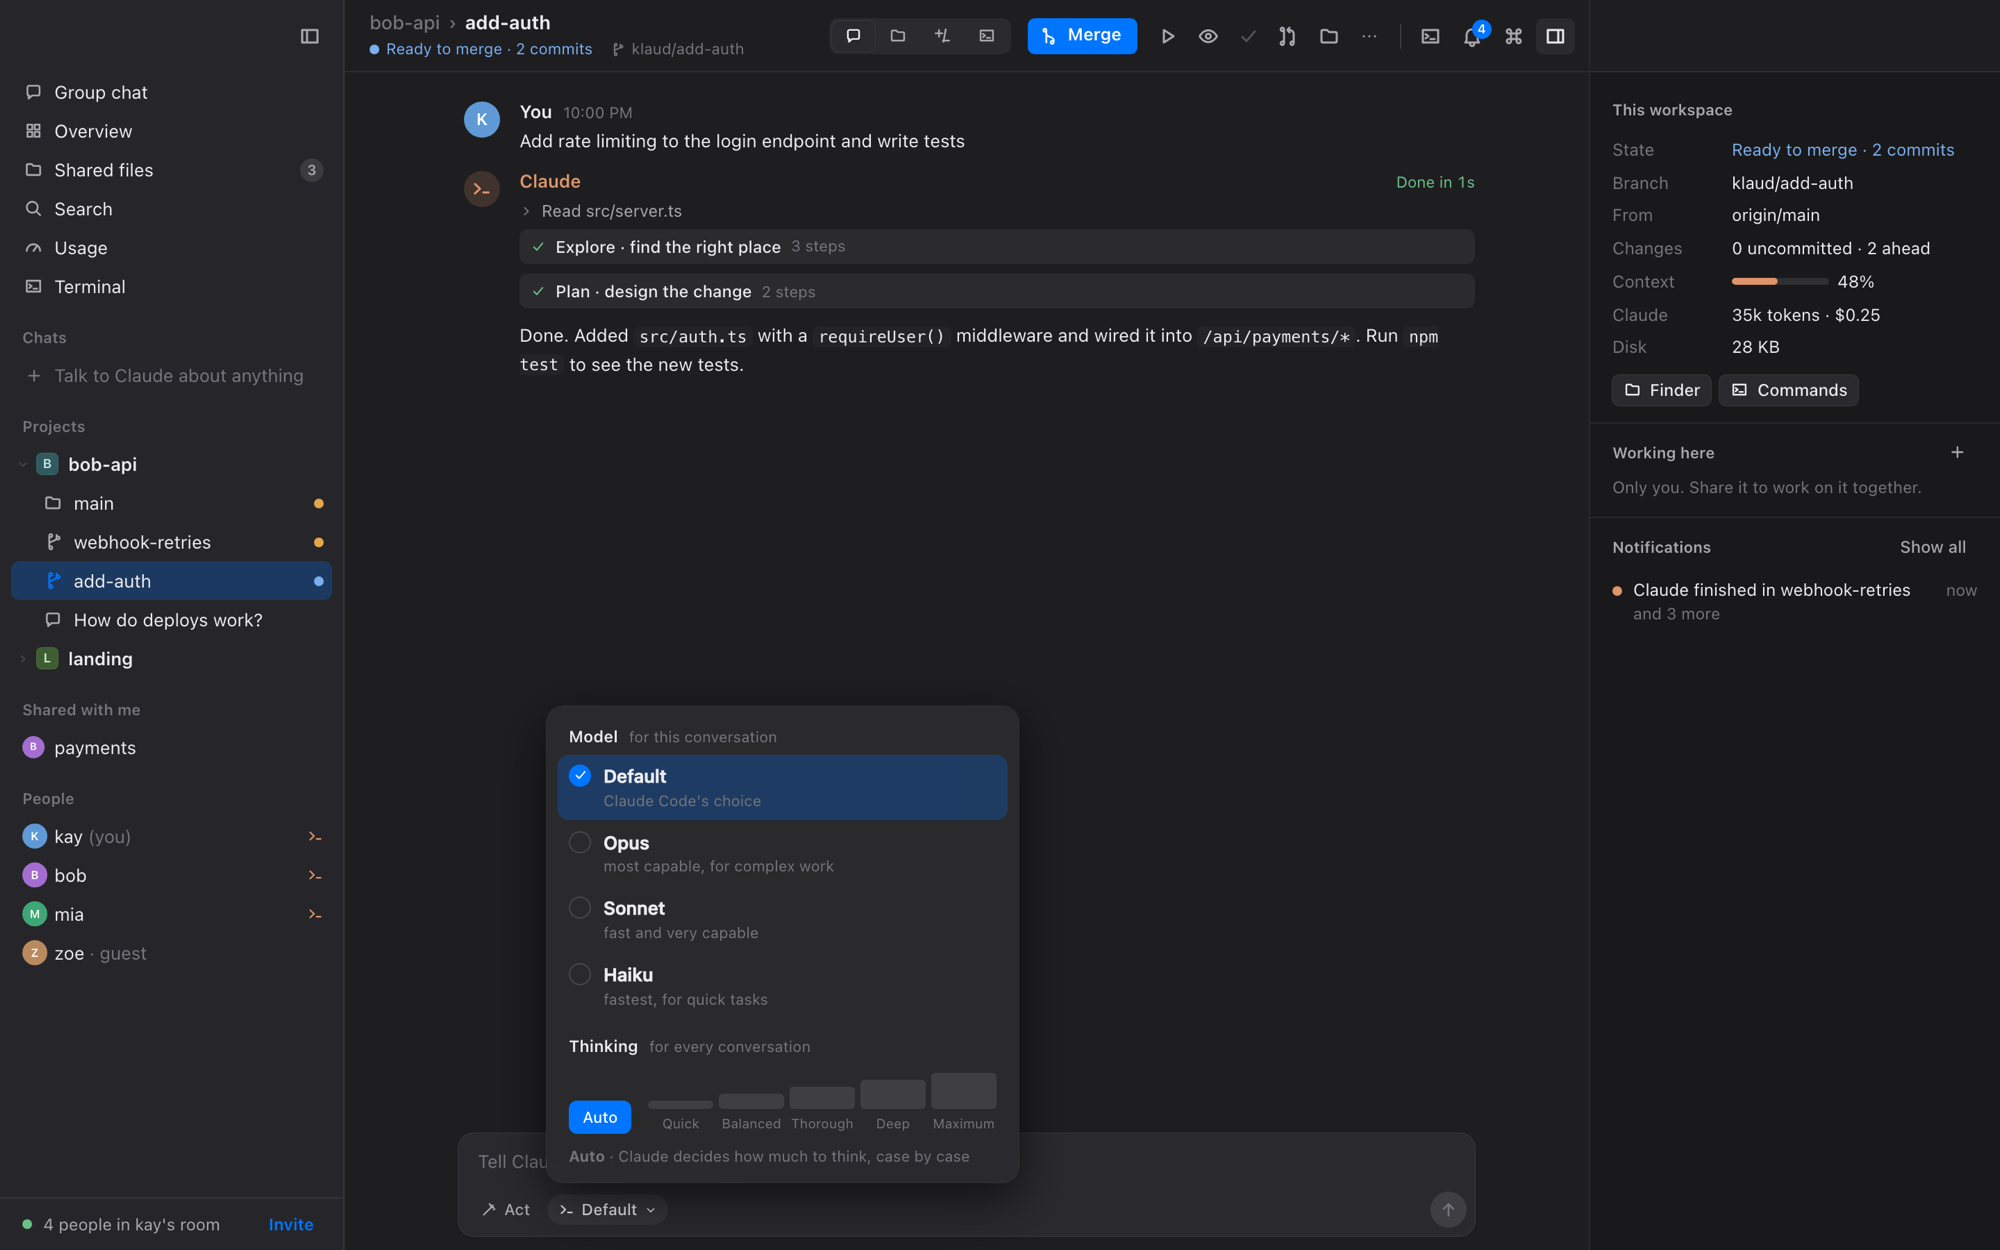
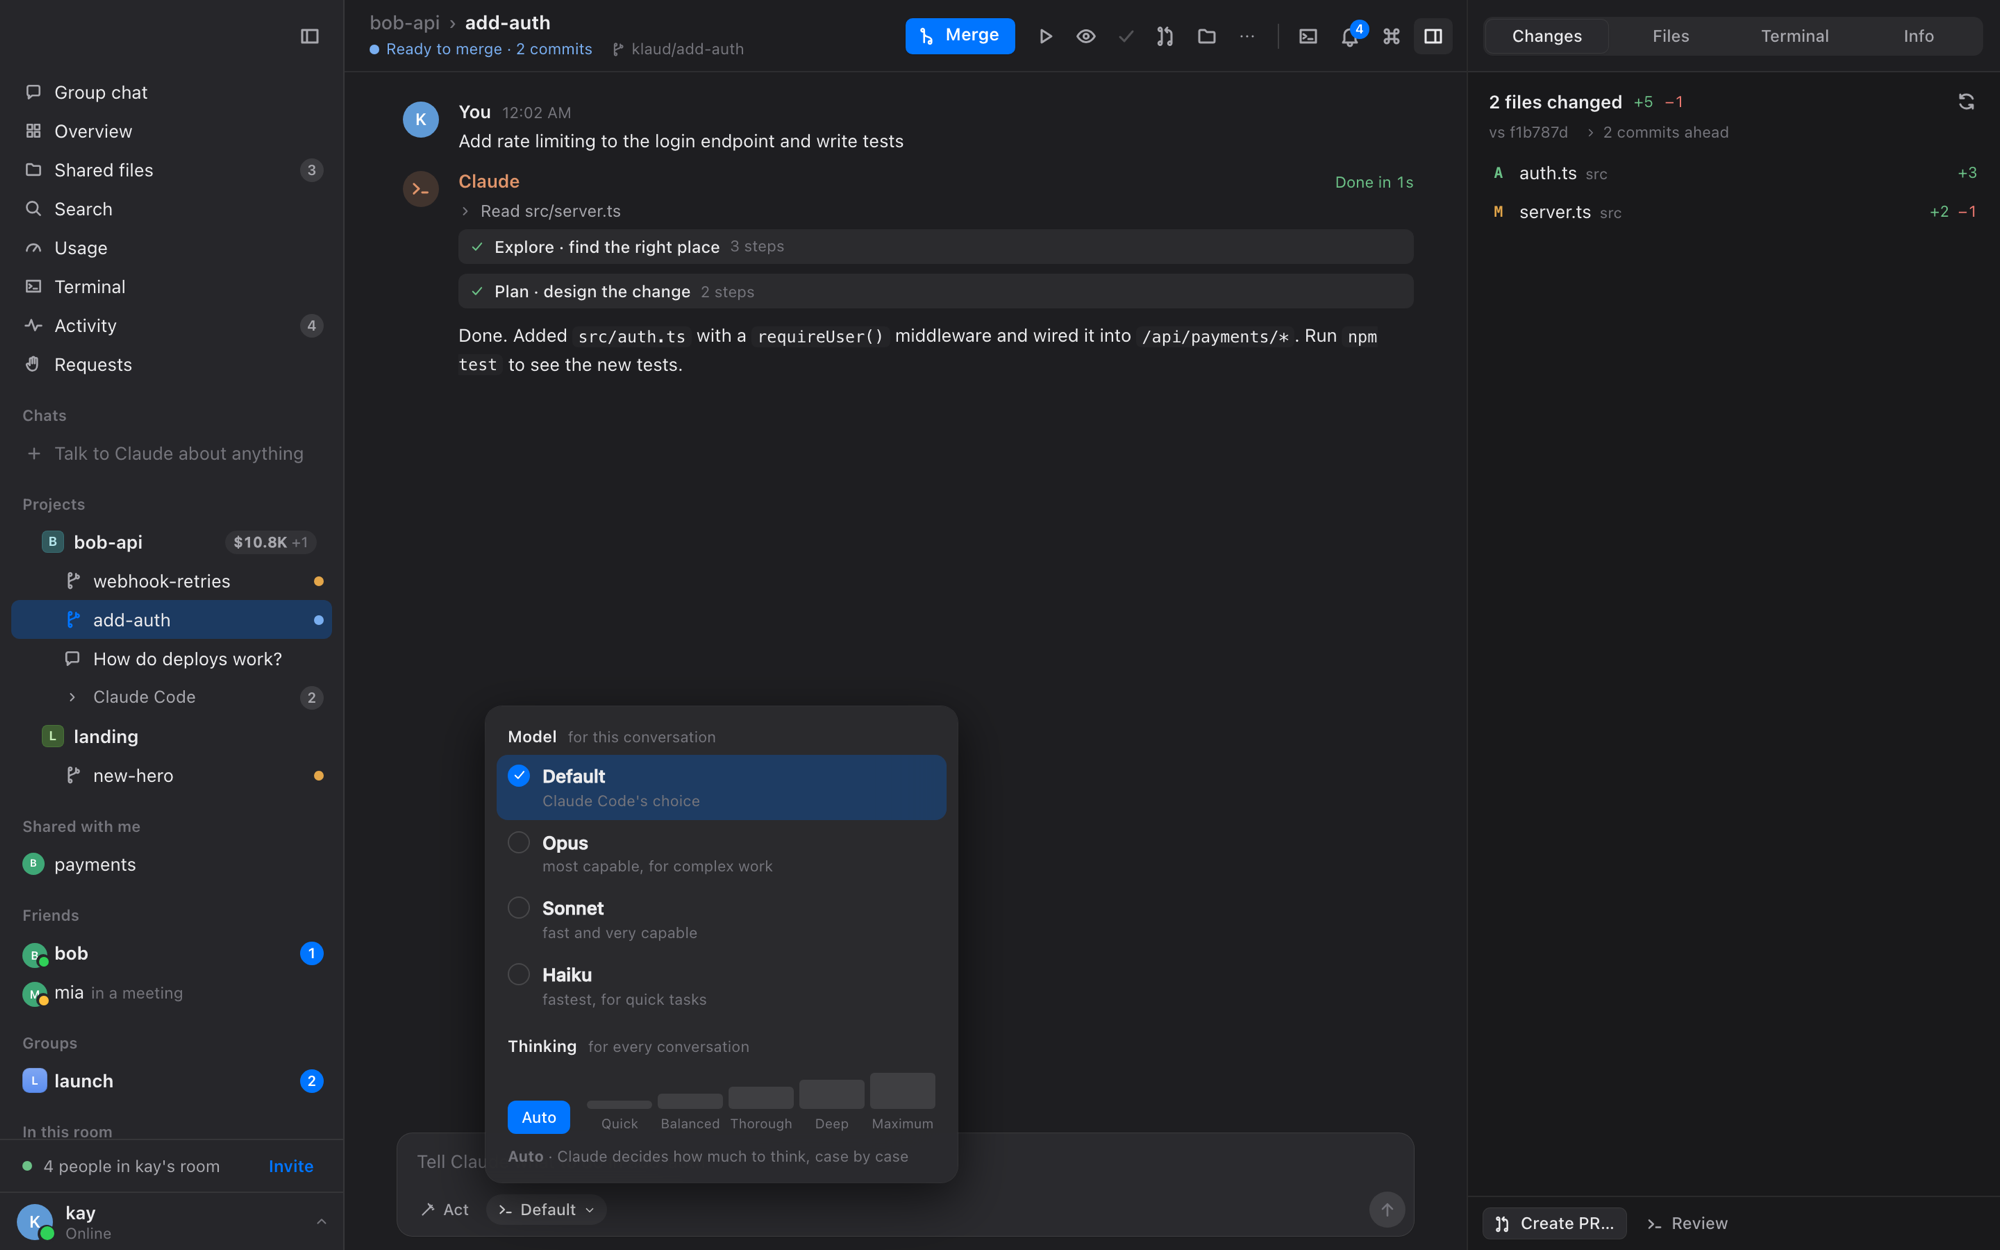
docs: lead with Klaud for Mac; the terminal app becomes Klaud Lite
The README opens with the Mac app (download, a screenshot of the current
layout, what it does, a tour of nine fresh screenshots: project home,
Activity, terminals in the panel, friends, Usage, Overview, earnings, the
model picker), then install, friends, and Klaud Lite in the terminal as the
lightweight option.

diff --git a/README.md b/README.md
@@ -6,157 +6,111 @@
 </p>
 
 <p align="center">
-  <b>Every project and the Claude working in each, side by side.<br>Bring your friends: everyone brings their own Claude, and you all work together.</b>
+  <b>A Mac app for every project and the Claude working in each, side by side.<br>Bring your friends: everyone brings their own Claude, and you all work together.</b>
 </p>
 
 <p align="center">
   <a href="https://github.com/kayraucklnc/klaud/releases/latest"><img src="https://img.shields.io/github/v/release/kayraucklnc/klaud?label=Download%20for%20Mac&logo=apple&color=0a84ff&style=for-the-badge" alt="Download Klaud for Mac"></a>
-  &nbsp;
-  <a href="#klaud-in-the-terminal"><img src="https://img.shields.io/npm/v/klaudcode?label=npm%20i%20-g%20klaudcode&logo=npm&color=444&style=for-the-badge" alt="Install the terminal app: npm i -g klaudcode"></a>
+</p>
+<p align="center">
+  <sub>Apple Silicon · macOS 13+ · updates itself &nbsp;·&nbsp; Prefer the terminal? <a href="#klaud-lite-in-your-terminal">Klaud Lite</a></sub>
 </p>
 
 <p align="center">
-  <a href="#two-ways-to-use-it">Two ways to use it</a> ·
-  <a href="#klaud-for-mac">Mac app</a> ·
-  <a href="#klaud-in-the-terminal">Terminal app</a> ·
-  <a href="#what-you-can-do">Features</a> ·
-  <a href="docs/how-it-works.md">How it works</a> ·
-  <a href="docs/security.md">Security</a>
+  <img src="assets/mac/hero.png" alt="Klaud for Mac: a worktree with Claude's finished run in the middle, its changes and diff in the right panel, projects and friends in the sidebar" width="940">
 </p>
 
-<p align="center">
-  <img src="assets/mac/workspace.png" alt="Klaud for Mac: a worktree with Claude's live run, the sidebar of projects and the inspector" width="920">
-</p>
-
-## Two ways to use it
-
-The same Klaud, with the same projects, worktrees, Claudes and friends, in two places. Use either one, or both at once: they attach to the same Klaud underneath.
-
-<table>
-  <tr>
-    <th width="50%">🖥 Klaud for Mac</th>
-    <th width="50%">⌨ Klaud in the terminal</th>
-  </tr>
-  <tr>
-    <td><a href="#klaud-for-mac"><img src="assets/mac/terminal-dark.png" alt="Klaud for Mac in dark mode with a terminal beside the chat"></a></td>
-    <td><a href="#klaud-in-the-terminal"><img src="assets/terminal/overview.png" alt="Klaud in the terminal: two worktrees working at once"></a></td>
-  </tr>
-  <tr>
-    <td>A native Mac app: a translucent sidebar, Claude's runs as live cards, a right panel with what changed, your files and real terminals beside the chat, images in the chat, a notification centre, friends and groups with no server. Light, dark or system.</td>
-    <td>The lightweight one. Everything in your terminal, every button clickable, nothing to memorize. Perfect over SSH or when you live in the terminal.</td>
-  </tr>
-  <tr>
-    <td><b><a href="https://github.com/kayraucklnc/klaud/releases/latest">Download the .dmg</a></b> from Releases (Apple Silicon, macOS 13+). It brings everything it needs; only <a href="https://claude.com/claude-code">Claude Code</a> must be signed in.</td>
-    <td><code>npm install -g klaudcode</code> then <code>klaud</code>.<br>Needs Node 20+ and <a href="https://claude.com/claude-code">Claude Code</a> signed in.</td>
-  </tr>
-</table>
-
-## What you can do
+## What Klaud does
 
 | | |
 |---|---|
-| 🌿 **A worktree per task, in every project** | Describe the task; a fresh worktree (its own folder, branch and Claude conversation) is made from the latest `origin`, named for you. Your `.env` files come along. |
-| ⚡ **Many Claudes at once, never in each other's way** | `add-auth` in one project and `new-hero` in another work side by side, each with sub-agents you can watch live. |
-| 🔭 **Everything at a glance** | Which Claude is working, which worktree is ready to merge, which has a conflict, in plain words. |
-| ✅ **Review, plan, merge, pull request** | A thorough review by sub-agents; plan mode so Claude proposes before it changes anything; Merge explains itself; Claude writes the pull request. |
-| 🖥 **Real terminals** | Your own shell (zsh, bash, fish…) in every project, renamable, with your environment variables. |
-| 💬 **Friends, each with their own Claude** | Invite people into a room or a single worktree. `@claude:mia` runs on mia's computer with mia's subscription. You decide how much each person may do. |
-| 🔒 **End-to-end encrypted, peer to peer** | Friends connect straight to you; every message is encrypted and signed. Nothing is shared until you invite someone. |
+| 🌿 **A worktree per task** | Say what you want done; Klaud makes a fresh worktree (its own folder, branch and Claude), named for the task. Your main folder is only for questions: Claude never changes it, and asking for a change moves you to a new worktree. |
+| ⚡ **Many Claudes at once** | Every worktree in every project works in parallel, each with sub-agents you can watch. The sidebar shows who's working, what's ready to merge, what needs you. |
+| 🧩 **Everything beside the chat** | The conversation stays in the middle; the right panel has the changes and diffs, the files, your terminals and the details. Commit, open a pull request or merge in one click. |
+| 👀 **See every Claude on your Mac** | Activity shows Claude Code sessions running anywhere, Conductor included, and every background agent they started, live. |
+| 💬 **Friends, with no server** | Add a friend with a code; talk directly, Mac to Mac, end-to-end encrypted. Groups live on everyone's Mac, so nobody hosts them. |
+| 🤝 **Claudes that work for each other** | Your Claude can ask a friend's Claude to do something on their Mac, or run a command there, and continue with the result. Trusted friends skip the approval. |
+| 📊 **Usage, disk and earnings** | Plan limits, tokens per day, disk per project with one-click clean up, and each project's all-time Stripe earnings. |
+| 🎨 **A real Mac app** | Light and dark, your accent colour, right-click everywhere, drag and drop, ⌘K for anything, a menu-bar icon, notifications with your own sounds, and it updates itself. |
 
-## Klaud for Mac
-
-**[Download it from Releases](https://github.com/kayraucklnc/klaud/releases/latest)**, open the `.dmg` and drag Klaud to Applications. The first time, right-click Klaud › **Open** (this preview isn't notarized by Apple yet). After that it keeps itself up to date: new versions download in the background and install when you say, when you're idle, or when you quit ([how](docs/updates.md)).
-
-<table>
-  <tr>
-    <td width="50%"><img src="assets/mac/workspace.png" alt="A worktree with Claude's run"><br><b>Worktrees.</b> Claude's run as a live card with its steps and sub-agents; the next step (Commit, Merge, PR) one click away.</td>
-    <td width="50%"><img src="assets/mac/terminal-dark.png" alt="A terminal docked beside the chat"><br><b>A terminal beside the chat.</b> ⌘J shows your shell in the right panel (or in a drawer under the chat), next to the conversation.</td>
-  </tr>
-  <tr>
-    <td><img src="assets/mac/images.png" alt="A friend's screenshot in the chat"><br><b>Images in the chat.</b> Paste or drop a screenshot; it shows for everyone, full size on click.</td>
-    <td><img src="assets/mac/queue.png" alt="Messages queued while Claude works"><br><b>Queue or send now.</b> Keep typing while Claude works; reorder, edit or send one right away.</td>
-  </tr>
-  <tr>
-    <td><img src="assets/mac/notifications.png" alt="The notification centre"><br><b>Notifications.</b> What finished or needs you, with filters, Do Not Disturb, and a click that takes you there.</td>
-    <td><img src="assets/mac/person.png" alt="A person's card"><br><b>People.</b> Message someone, ask their Claude, set how much you trust them, all from their card.</td>
-  </tr>
-  <tr>
-    <td><img src="assets/mac/add-projects.png" alt="Adding projects"><br><b>Add projects.</b> Drop folders, choose them, or pick from the git projects already on your Mac, each with its own icon.</td>
-    <td><img src="assets/mac/model.png" alt="Model and thinking picker"><br><b>Model and thinking.</b> Pick the model for a conversation and how hard Claude thinks, in plain words.</td>
-  </tr>
-</table>
-
-⌘K finds anything. Right-click works everywhere. The menu bar has every action with its shortcut, and the menu-bar icon shows what waits for you.
-
-## Klaud in the terminal
-
-```bash
-npm install -g klaudcode   # the command it installs is `klaud`
-klaud                      # your projects (nothing is shared until you click Invite)
-klaud demo                 # look around with two pretend friends (npx klaudcode demo works without installing)
-```
-
-<p align="center">
-  <img src="assets/terminal/demo.gif" alt="Klaud in the terminal: two worktrees in two projects, each with its own Claude and sub-agents; the overview; a group chat with two friends" width="900">
-  <br><sub>Recorded with <code>klaud demo</code> (the friends and every Claude reply are simulated)</sub>
-</p>
+## A tour
 
 <table>
   <tr>
-    <td width="50%"><img src="assets/terminal/subagents.png" alt="A Claude and its sub-agents"><br><b>Sub-agents.</b> Explore and Plan agents working for the Claude in <code>new-hero</code>.</td>
-    <td width="50%"><img src="assets/terminal/group.png" alt="Group chat with two friends"><br><b>Talk with everyone.</b> You, bob and mia in one room, each with their own Claude.</td>
+    <td width="50%"><img src="assets/mac/project-home.png" alt="A project's home page"><br><b>Start from the project.</b> Describe a task and Klaud makes the worktree; or just ask a question about the code.</td>
+    <td width="50%"><img src="assets/mac/activity.png" alt="Activity: Claude Code agents running"><br><b>Activity.</b> Every Claude Code session and background agent on your Mac, with what each is doing right now.</td>
   </tr>
   <tr>
-    <td><img src="assets/terminal/plan.png" alt="Claude proposes a plan"><br><b>Plan first.</b> Claude looks around, then asks you to approve its plan.</td>
-    <td><img src="assets/terminal/terminal.png" alt="A real terminal in a workspace"><br><b>Terminal.</b> A real shell in every workspace, next to its setup and run commands.</td>
+    <td><img src="assets/mac/terminal-dark.png" alt="A terminal in the right panel"><br><b>Terminals beside the chat.</b> The worktree's shell, setup and run in the right panel, or a drawer under the chat with ⌘J.</td>
+    <td><img src="assets/mac/friends.png" alt="A conversation with a friend"><br><b>Friends.</b> Direct, end-to-end encrypted, no server. Set how much each friend's Claude may do.</td>
+  </tr>
+  <tr>
+    <td><img src="assets/mac/usage.png" alt="Usage"><br><b>Usage.</b> Your plan's limits, tokens and cost per day, disk per project, and space you can free.</td>
+    <td><img src="assets/mac/overview.png" alt="Overview"><br><b>Overview.</b> Every worktree and chat, archived ones too, filtered by what needs you.</td>
+  </tr>
+  <tr>
+    <td><img src="assets/mac/earnings.png" alt="Stripe earnings for a project"><br><b>Earnings.</b> Connect a project's Stripe and see what it has earned, refreshed once a day.</td>
+    <td><img src="assets/mac/model.png" alt="Model and thinking picker"><br><b>Model and thinking.</b> Pick the model per conversation and how hard Claude thinks, in plain words.</td>
   </tr>
 </table>
 
-Everything is clickable, and the bar at the bottom always says what you can do next. The full guide: **[docs/terminal.md](docs/terminal.md)**.
+## Install
+
+1. **[Download Klaud](https://github.com/kayraucklnc/klaud/releases/latest)**, open the `.dmg` and drag Klaud into Applications.
+2. The first time, right-click Klaud in Applications and choose **Open** (it isn't notarized by Apple yet).
+3. Sign in to [Claude Code](https://claude.com/claude-code) if you haven't (`claude`, then `/login`). Klaud brings everything else.
+
+Klaud checks for updates once a day and installs them when you say so, or by itself when you're away.
 
 ## Working with friends
 
-Click **Invite** and send the link. Your friends open it in Klaud for Mac, or run `klaud join <link>` in the terminal. Everyone keeps their own Claude, subscription and permissions:
+- **Add a friend** with a short code or a link. From then on your Macs talk directly whenever you're both online, end-to-end encrypted, with nothing in between.
+- **Groups** live on every member's Mac: anyone can be offline, and you catch up when you're back.
+- **Everyone keeps their own Claude**, subscription and permissions. Ask a friend's Claude to do something on their Mac and get the result back; decide per friend what their Claude may do on yours.
+- **Share a worktree** to build it together, or hand it off so their Claude continues.
 
-- `@claude:mia` asks mia's Claude; it runs on mia's computer.
-- Share one worktree to build it together, or hand it off so their Claude continues it.
-- When someone joins, pick how much you trust them: *Can't use my Claude*, *Ask me each time*, *Trusted*, or *Full trust*.
+More: [the friends network](docs/network.md) · [security](docs/security.md).
 
-Friends connect straight to you, peer to peer, end-to-end encrypted ([how](docs/how-it-works.md), [security](docs/security.md)).
+## Klaud Lite, in your terminal
+
+The same Klaud as a lightweight terminal app: projects, worktrees, every Claude and your friends, everything clickable. Great over SSH or if you live in the terminal.
+
+```bash
+npm install -g klaudcode   # the command is `klaud`
+klaud                      # your projects
+klaud demo                 # look around with two pretend friends
+```
+
+<p align="center">
+  <img src="assets/terminal/overview.png" alt="Klaud Lite in the terminal: two worktrees working at once" width="760">
+</p>
+
+Klaud Lite and the Mac app can run at the same time on the same projects. The full guide: [docs/terminal.md](docs/terminal.md).
 
 ## How it works
 
-Klaud is one engine with two faces. The engine (projects, Claude, terminals, rooms) runs in the background on your Mac; the Mac app and the terminal app are both windows onto it, so approving something in one clears it in the other. Each Claude runs on its owner's computer through the [Claude Agent SDK](https://docs.claude.com/en/api/agent-sdk/overview).
+Klaud is one engine with two faces. The engine (projects, Claude, terminals, friends) runs in the background on your Mac; the Mac app and Klaud Lite are windows onto it. Each Claude runs on its owner's computer through the [Claude Agent SDK](https://docs.claude.com/en/api/agent-sdk/overview), with their own subscription.
 
-More: [how it works](docs/how-it-works.md) · [security](docs/security.md) · [peer-to-peer connections](docs/p2p.md) · [the friends network](docs/network.md) · [what each app offers](docs/parity.md).
+More: [how it works](docs/how-it-works.md) · [security](docs/security.md) · [peer-to-peer connections](docs/p2p.md) · [the friends network](docs/network.md) · [updates](docs/updates.md) · [what each app offers](docs/parity.md).
 
 ## Development
 
 ```bash
 git clone https://github.com/kayraucklnc/klaud.git && cd klaud
-npm install
-npm run dev -- demo        # the terminal app, from source
-npm test                   # unit, multi-peer and two-screen tests
-npm run typecheck
-```
+npm install && npm test
 
-The Mac app lives in [packages/mac](packages/mac) (Tauri 2, React):
-
-```bash
 cd packages/mac && npm install
-npm run app:dev            # the app, running Klaud from this repo
-npm run dev                # just the web UI in a browser (start a daemon first: klaud daemon --keep-alive demo)
+npm run app:dev            # the Mac app, running Klaud from this repo
 npm run e2e                # Playwright tests against the demo
-npm run app:build          # bundles Node + Klaud, then the .app and .dmg
+npm run app:build          # the .app and the designed .dmg
+npm run release            # build, sign and publish a release (see docs/updates.md)
 ```
 
 ```
-src/            the engine (core, network, Claude, terminals) and the terminal app (src/ui)
 packages/mac/   the Mac app (React UI in src/, the native shell in src-tauri/)
+src/            the engine (core, friends network, Claude, terminals) and Klaud Lite (src/ui)
 docs/           guides and design notes
 ```
-
-Every merge to `main` publishes the terminal app to npm and the Mac app to Releases ([publish.yml](.github/workflows/publish.yml)).
 
 Klaud used to be called klaude. Your `~/.klaude` settings, projects and worktrees carry over automatically.
 
